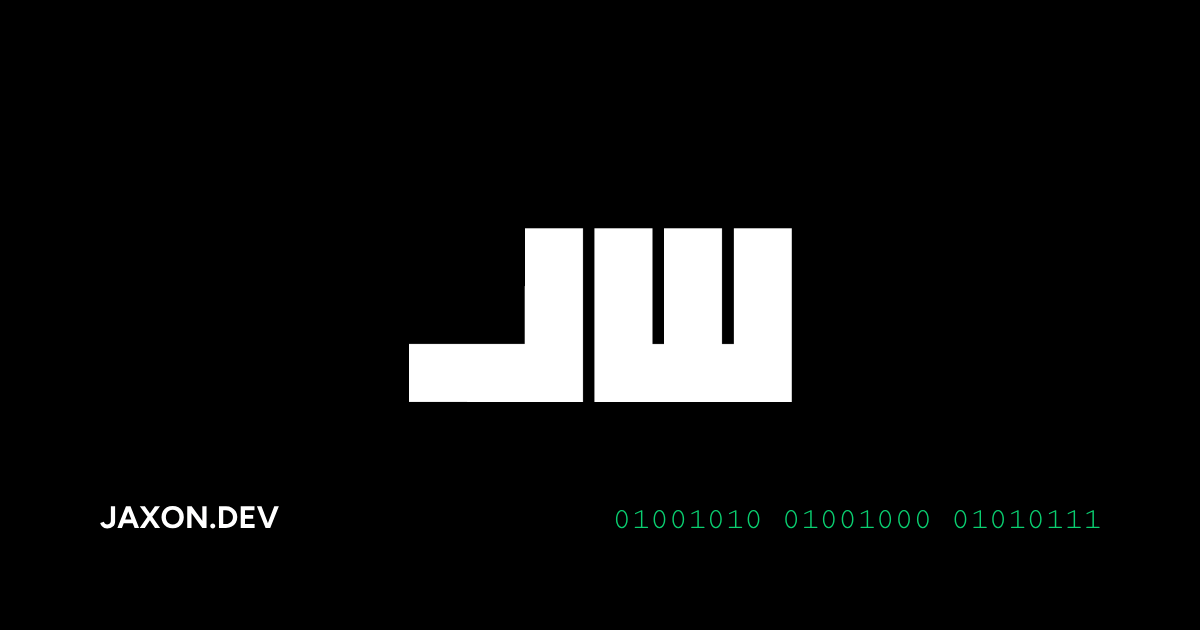
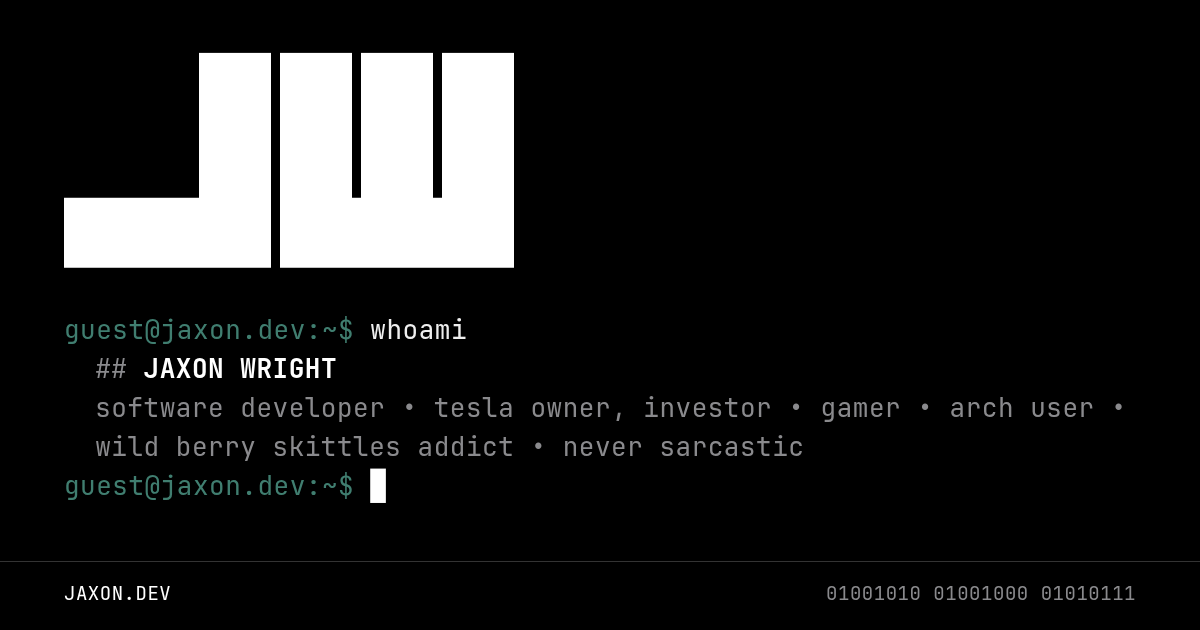
Social card: render graph.png in the terminal look
scripts/gen-social-card.mjs renders the 1200x630 Open Graph image in
headless Chromium from the site's own font, JW logo and default theme:
the logo above a whoami prompt that prints the X bio. Rerun it when the
look or the bio changes.

Also make og:image absolute and add size, alt and twitter:card tags so
scrapers show the large card.

diff --git a/src/index.html b/src/index.html
@@ -6,7 +6,11 @@
   <base href="/">
   <meta name="viewport" content="width=device-width, initial-scale=1, viewport-fit=cover">
   <link rel="icon" type="image/x-icon" href="assets/img/branding/favicon.svg">
-  <meta property="og:image" content="assets/img/branding/graph.png">
+  <meta property="og:image" content="https://jaxon.dev/assets/img/branding/graph.png">
+  <meta property="og:image:width" content="1200">
+  <meta property="og:image:height" content="630">
+  <meta property="og:image:alt" content="JW logo above a terminal whoami for Jaxon Wright">
+  <meta name="twitter:card" content="summary_large_image">
   <meta name="color-scheme" content="dark">
   <meta name="theme-color" content="#000">
   <meta name="description" content="Personal website for Jaxon Wright. Tech Enthusiast. Android Nerd. Tesla Junkie. Software Developer." />
